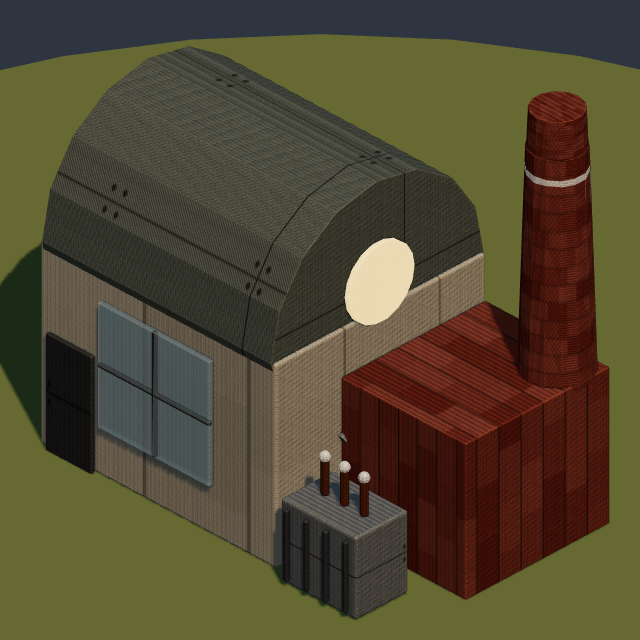
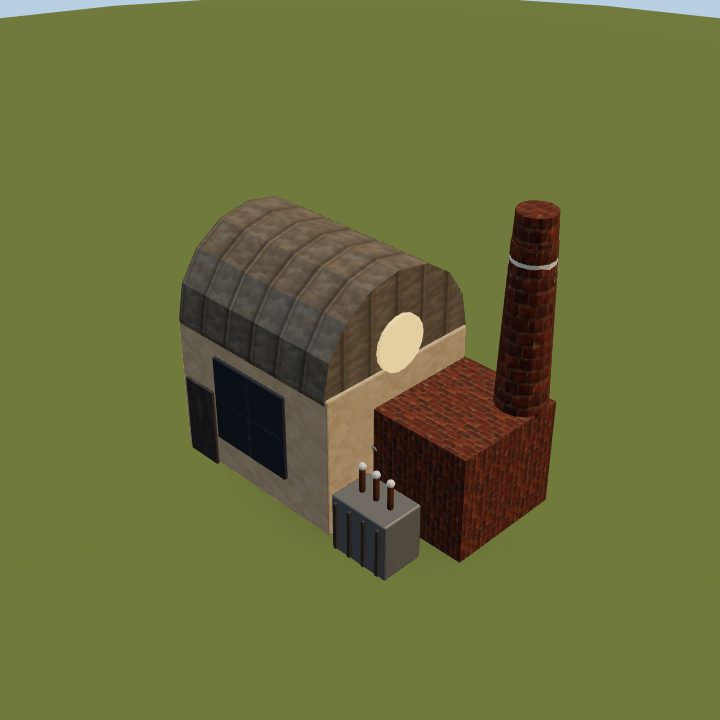
docs(buildings): round-14 renders, structures.json revision note, material table, HANDOFF addendum 11

diff --git a/assets/buildings-3d/README.md b/assets/buildings-3d/README.md
@@ -1,31 +1,90 @@
-# buildings-3d — 設置建物13種の3Dモデル（2026-11-07）
+# buildings-3d — 設置建物13種の3Dモデル（2026-11-07、テクスチャ改修 第14ラウンド）
 
 原画（`../buildings-icons/source/buildings-1.jpg` / `buildings-2.jpg`）を
 設計図として、Blenderで実モデル化した設置建物13種。単色の箱・球の
 組み合わせではなく、構造（骨組み・開口・付属設備）→輪郭→色面→質感
-（手続きテクスチャ）の順に作り込んである。
+の順に作り込んである。
+
+**第14ラウンド（2026-11-07）**: オーナー提供の素材原画3枚
+（`source-gpt/sheet-1..3.jpg`、各2×2=12素材）を使い、全13種の外観を
+改修した。手続きテクスチャは廃止し、原画由来の素材に差し替え。
+UVは全面ごとに実寸スケールへ正規化し、全建物でテクスチャ密度を
+統一した（下記「素材と適用先」参照）。
 
 ## 構成
 
 - `models/<id>.glb` — ゲーム導入用GLB（原点=接地中心、1単位=1m、前面=+Z）
-- `textures/*.png` — 手続き生成テクスチャ14種（512px、モデルに埋め込み済み。
-  単体でも環境テクスチャとして再利用可）
+- `textures/*.png` — 素材テクスチャ12種×（albedo 512px / 法線 256px /
+  粗さ 256px）＋補助4種（年輪・煤デカール・炎カード・接地影）。
+  モデルに埋め込み済み。旧・手続きテクスチャ14種は廃止（git履歴に残存）
 - `structures.json` — ID・寸法・占有形状（footprint）・入口・操作位置・
   可動部・素材メモの対応表（Claudeの組み込み用）
 - `renders/<id>.png` — three.js（ゲームと同バージョン0.180）ビューアで
   ゲームの探索カメラ（pitch 32° / yaw 45°）から撮った確認画像。
   `renders/contact-sheet.png` に13種の一覧もある
-- `tools/make_textures.py` / `tools/build_buildings.py` — 再生成パイプライン
-  （`blender -b -noaudio --python tools/build_buildings.py -- models --render`）
+- `tools/process_textures.py` — 素材加工（切り出し・タイリング化・
+  法線/粗さ生成・補助テクスチャ生成）。継ぎ目検証値は
+  `texture-report.json`、2×2タイリング確認画像は `previews/`
+- `tools/build_buildings.py` — モデル再生成
+  （`blender -b -noaudio --python tools/build_buildings.py -- models`）
+
+## 素材と適用先（第14ラウンド）
+
+素材原画は未加工の2×2シート。各素材を個別に切り出し（境界は内側に
+寄せて隣の混入を回避）、構造素材（板材・草葺き・レンガ・瓦・金属
+屋根）は模様の周期に合わせて切り抜いてタイリング化、有機素材は
+端部クロスフェードで継ぎ目を消した。原画の強い陰影は平坦化し、
+彩度・コントラストはキャラクターに合わせて抑制。
+
+法線マップは**色の明暗からではなく構造から**生成：レンガ/石積みは
+目地マスク、板材は板の溝、瓦は重なり、金属屋根はリブ、樹皮は縦の
+隆起。木目や銅の緑青などの色むらは凹凸にしていない（銅の法線は
+ほぼ平坦）。粗さは絶対値マップ（目地は粗く、銅の地金部は滑らか・
+緑青部は粗い、鋳鉄は斑で変化）。
+
+| 素材 | 主な適用先 |
+|---|---|
+| 板材 planks（木目=部材長手方向に2向き用意） | 作業台の天板・棚、水車の羽根板・導水板、研究室の実験台、工場の扉・木箱、やぐらの床・小屋 |
+| 草葺き thatch | 小屋の屋根（棟→軒の流れ＋軒先の房飾り） |
+| 土壁 earth | 小屋の壁 |
+| 樹皮 bark | 丸太部材全般（脚・柱・支柱・車軸）。切断面は年輪テクスチャを別途適用 |
+| 自然石 stone | 土台・基礎・炉の基部（広い面用 stone 大タイル／薄い面用 stone オフセット版も用意） |
+| 焼き土 clay | 窯のドーム（横線なし）、製錬炉の炉体 |
+| レンガ brick（実寸スケール） | 工場の壁・煙突、発電所のボイラー棟・煙突 |
+| 瓦 tile | 研究室の屋根 |
+| 鋳鉄 iron（斑・明度調整済み） | 蒸気機関のボイラー・台枠・フライホイール、精留塔の足場・梯子、工場の窓枠 |
+| 銅 copper（緑青は局所） | 精留塔の凝縮器・配管、蒸気機関の配管、研究室の蒸留ポット、変圧器のブッシング |
+| 金属屋根 metalroof（リブ方向2種） | 工場の鋸屋根、発電所のアーチ屋根、研究所の屋根、小屋根・庇 |
+| 漆喰 plaster | 研究室の壁、研究所の外壁、発電所のホール壁 |
+
+建物ごとの変更点（形状修正）:
+- たき火: 三角形の炎→十字の炎カード（輪郭の揺らぎ＋発光グラデ）＋
+  小さな芯コーン。熾火の粒・灰床・薪（樹皮＋年輪の切断面）を分離
+- 窯: 焚き口を石枠＋実奥行きのある暗い空洞に再構成し、発光は内部の
+  低位置のみ。煤は口周辺だけにデカールで局所配置
+- 小屋: 軒先に不揃いな草の房を追加
+- 製錬炉: 炉口に空洞＋小さな内部発光を追加
+- 窓: 白い発光板→枠＋暗いガラスが基本。光る窓は工場1枚・研究所の
+  フラスコ1点・発電所の丸窓だけに限定
+- 全建物: 接地に柔らかい放射グラデーションの影（`ContactShadow`
+  ノード）を追加。四角い地面絵の焼き込みではない。地形と干渉する
+  場合はこのノードだけ外せる
+- 水車: 橋脚の下部だけ濡れ石（暗色・低粗さ）に。回転する車輪側は
+  濡れ表現を付けていない（回転で不自然になるため）
+
+GLB合計は約24.6MB（1体あたり0.5〜2.8MB）。テクスチャ埋め込みのため
+第13ラウンド比で増えている。軽量化が必要な場合は、法線/粗さを
+落とすか albedo 256px 版の再生成（`process_textures.py` の SIZE）を
+検討すること。
 
 ## 対応表（構造物タイプ → モデル）
 
 | 構造物ID | 名称 | 対応する設備ID | サイズ W×D×H (m) | 可動部・分離部 |
 |---|---|---|---|---|
 | workbench | 作業台 | bench | 2.2×1.05×1.23 | — |
-| campfire | たき火 | campfire | 1.52×1.47×0.75 | Flame（炎、分離） |
+| campfire | たき火 | campfire | 1.52×1.47×0.83 | Flame（炎カード、分離） |
 | kiln | 窯 | kiln（かまど） | 2.46×2.28×1.6 | — |
-| hut | 小屋 | —（stage連動） | 3.8×3.38×3.16 | — |
+| hut | 小屋 | —（stage連動） | 3.8×3.40×3.16 | — |
 | smelter | 製錬炉 | furnace（簡易炉） | 3.65×2.75×2.29 | Bellows（ふいご一式） |
 | laboratory | 研究施設 | —（stage連動） | 4.6×3.22×3.8 | — |
 | steam-engine | 蒸気機関 | steamengine | 2.93×1.38×2.28 | Wheel（フライホイール）/ Piston |
@@ -33,7 +92,7 @@
 | factory | 工場 | —（stage連動） | 5.2×4.25×5.04 | — |
 | power-plant | 発電所 | —（段階建物） | 5.53×3.46×5.32 | — |
 | research-institute | 研究所 | —（stage連動） | 5.65×4.2×4.68 | — |
-| waterwheel | 水車 | waterwheel | 2.3×1.71×2.55 | Wheel（羽根板車輪） |
+| waterwheel | 水車 | waterwheel | 2.3×1.73×2.56 | Wheel（羽根板車輪） |
 | drilling-rig | 掘削やぐら | rig | 2.9×2.55×3.56 | DrillPipe / Winch |
 
 寸法は three.js 上での実測値。占有形状などの正式値は `structures.json`。
@@ -57,17 +116,24 @@
 現行の `StructureRenderer` はファクトリ差し替え式で、ヘッダーコメント
 どおり GLB 読み込みのファクトリを `registerFactory` で登録すれば
 呼び出し側は無変更で置き換わる。GLBの配信方法（単一ファイルビルドへの
-同梱か、assets 配信か）はゲーム側の構成に合わせること。モバイル向けには
-同一モデルの低ポリ版を別途出す代わりに、まず本モデルで実測し、重い
-機種だけテクスチャ 256px 版への差し替えを検討（テクスチャは
-`tools/make_textures.py` の S を変えて再生成可能）。
+同梱か、assets 配信か）はゲーム側の構成に合わせること。寸法・占有・
+入口・操作位置は第13ラウンドから不変（炎カード化でたき火の高さのみ
+0.75→0.83、水車と小屋は装飾分 +0.02）。
 
 ## 検証範囲
 
 - three.js（ゲームと同バージョン 0.180）のビューアで、ゲームの探索
   カメラ（pitch 32° / yaw 45°）から全13種を確認（renders/）。
-  可動部（Wheel / Piston / DrillPipe / Winch）の回転・移動の向きも
-  同ビューアで確認済み（Wheel は rotation.z で盤面内回転を確認）。
-  Blender の EEVEE レンダーはこの VM に libEGL がなく未実施 —
+  第13ラウンドのGLBも同じビューア・同じ画角で撮り直し、前後比較を
+  揃えた。可動部（Wheel / Piston / DrillPipe / Winch）の回転・移動も
+  再確認済み（変形後のフレーム差分で計測）。
+- スマホ相当サイズ（220px表示）でも全13種の判読性を確認済み。
+- テクスチャの継ぎ目：有機素材は継ぎ目指標 ≒1.0（継ぎ目なしと同等）。
+  構造素材は周期切り抜きで目視確認済み（`previews/tiling-*.png`）。
+  高コントラスト模様では指標が大きめに出るため目視を正とした。
+- 残課題: 窯ドームは球面UVのため、土の渦巻き模様が緩い帯状に見える
+  （レンガ状の横線ではない）。気になる場合はドーム専用の
+  テクスチャ再生成が別途必要。
+- Blender の EEVEE レンダーはこの VM に libEGL がなく未実施 —
   代替として実エンジン（three.js）での確認を優先した。
-- 実ゲーム内での配置確認は未実施（Claudeの組み込み後）。
+- 実ゲーム内での配置確認・実機 FPS は未実施（Claudeの組み込み後）。

diff --git a/threejs-hd2d-graphics/HANDOFF-TO-CLAUDE.md b/threejs-hd2d-graphics/HANDOFF-TO-CLAUDE.md
@@ -282,3 +282,38 @@ gpt-forest の上に積んだブランチ。詳細は INTEGRATION.md §16。
 - シート切り出し時にセグメンテーション（rembg / isnet-general-use）の前景マスクと照合し、フラッドフィルで前景になった画素でもモデルが背景と判定した画素を除外（全シート計86,667px）。平坦さ判定のポケット除去も仕上げに併用。
 - 結果：配線ループの内側、机の脚の間、精留塔の配管の隙間などが透過になりました。ガラス器具、紙フィルター、煙、水しぶき、結晶などの白い造形は保持。全62点をマゼンタ背景で目視確認済み。
 - ファイル名・ID・アトラス座標は引き続き不変です。
+
+---
+
+## 追補11: 建物テクスチャ改修（第14ラウンド / feature/graphics-buildings-textures）
+
+オーナー提供の素材原画3枚（建物用12素材）で全13種のGLBを改修しました。
+モデル本体の寸法・原点・前面・可動部名・footprint・入口・操作位置は
+第13ラウンドから不変です（structures.json の textureRevision 参照）。
+差し替えは GLB ファイルの差し替えのみで完了します。
+
+### 素材まわり
+- 旧・手続きテクスチャ14種は廃止。新テクスチャは `assets/buildings-3d/
+  textures/` の12素材×（albedo 512 / 法線 256 / 粗さ 256）＋補助4種。
+  すべてGLBに埋め込み済み（単体ファイルは再生成・流通用）。
+- UVは全面で実寸スケールに統一済み。法線は構造由来（目地・板の溝・
+  瓦の重なり等）で、色むらを凹凸にしていません。
+- GLB合計 約24.6MB（1体 0.5〜2.8MB）。重い場合は声をかけてください
+  （256px版の再生成が可能）。
+
+### 形状の変更（見た目のみ）
+- たき火の炎が十字カード式に（Flameノード構成は同じ。ちらつきは
+  従来どおりグループのスケールで効きます）。高さ実測 0.75→0.83m。
+- 窯・製錬炉の口は石枠＋空洞＋内部の小さな発光に。煤は窯の口周辺だけ。
+- 窓は暗いガラスが基本。光るのは工場1枚・発電所の丸窓・研究所の
+  フラスコ1点のみ。
+- 全モデルに `ContactShadow` という名前の接地影プレーンを追加。
+  地形と干渉する場合はこのノードだけ除去してください（他の形状・
+  判定には無関係）。
+
+### 検証範囲
+- three.js 0.180 ビューア、ゲームカメラ（pitch 32° / yaw 45°）で
+  全13種＋スマホ相当 220px 表示を確認。可動部も再確認済み。
+- 実ゲーム内配置・実機FPSは未確認（統合後に確認をお願いします）。
+- 既知の残課題: 窯ドームの土模様が球面UVで緩い帯状に見えます
+  （レンガの横線ではありません）。
